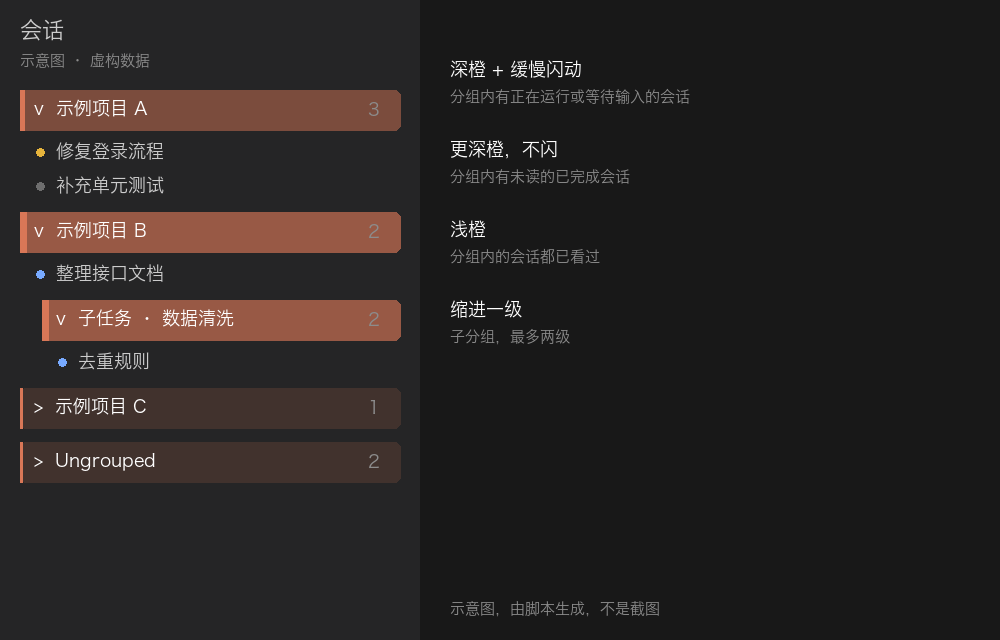
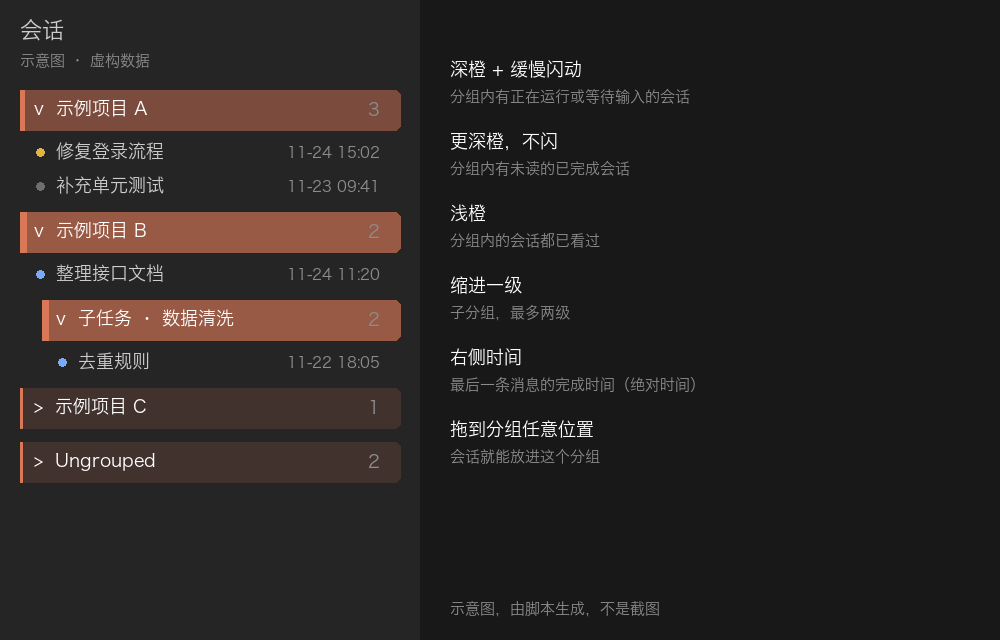
feat(vscode): drop sessions anywhere in a group, absolute session times
- sessions can be dropped on a group body, not only its header; the
  inner group handles the drop and stops propagation
- session rows show the absolute last-message time instead of "5m"
- refresh the preview image and docs

diff --git a/reapply.py b/reapply.py
@@ -12,6 +12,8 @@ Patches:
   the model into ~/.claude/settings.json, which other running sessions watch.
   Each session's pick is kept in globalState "sessionModels" and given back
   when that session is opened again.
+- Session rows show the absolute time of the last message.
+- A session can be dropped anywhere inside a group, not only on its header.
 - The context pie no longer sends /compact. It tells you to open a new
   thread and run /handoff.
 
@@ -19,10 +21,9 @@ The Marketplace build is minified and replaced on every update, so this
 script retargets the current install by structure, not by old symbol names.
 
 Usage:
-    python3 reapply.py
+    python3 ~/.config/claude-vscode-group-patch/reapply.py
 
 Then in VS Code: Developer: Reload Window.
-To run it automatically after updates, see install-launchagent.sh.
 """
 
 from __future__ import annotations
@@ -493,6 +494,79 @@ def apply_nest_menu(text: str) -> str:
     return text.replace(anchor, helper + anchor, 1)
 
 
+def apply_session_time(text: str) -> str:
+    """Session rows show the absolute time of the last message, not "5m"."""
+    if "getFullYear()===n.getFullYear()" in text:
+        return text
+    m = once(
+        text,
+        re.compile(
+            r"function (\w+)\((\w+)\)\{let \w+=Date\.now\(\)-\2,i=Math\.floor\(\w/1000\),"
+            r"o=Math\.floor\(i/60\),r=Math\.floor\(o/60\),s=Math\.floor\(r/24\),"
+            r"a=Math\.floor\(s/30\),l=Math\.floor\(s/365\);if\(l>0\)return`\$\{l\}y`;"
+            r"if\(a>0\)return`\$\{a\}mo`;if\(s>0\)return`\$\{s\}d`;if\(r>0\)return`\$\{r\}h`;"
+            r"if\(o>0\)return`\$\{o\}m`;return\"now\"\}"
+        ),
+        "relative time formatter",
+    )
+    name, arg = m.group(1), m.group(2)
+    new = (
+        f"function {name}({arg}){{if(!Number.isFinite({arg}))return\"\";"
+        f"let d=new Date({arg}),p=(x)=>String(x).padStart(2,\"0\"),n=new Date();"
+        'return(d.getFullYear()===n.getFullYear()?"":d.getFullYear()+"-")'
+        '+p(d.getMonth()+1)+"-"+p(d.getDate())+" "+p(d.getHours())+":"+p(d.getMinutes())}'
+    )
+    return text.replace(m.group(0), new, 1)
+
+
+def apply_group_drop_area(text: str) -> str:
+    """Drop a session anywhere inside a group, not only on its header."""
+    over_pat = "onDragOver:(ev)=>{if(ev.defaultPrevented||gDrag.current)return;"
+    drop_pat = "onDrop:(ev)=>{if(ev.defaultPrevented||gDrag.current)return;"
+    if over_pat in text:
+        text = text.replace(over_pat, over_pat + "ev.stopPropagation();")
+        text = text.replace(drop_pat, drop_pat + "ev.stopPropagation();")
+        return text
+    head = once(
+        text,
+        re.compile(
+            r'onDragOver:\((\w+)\)=>\{if\(gDrag\.current\)\{gOver\(\1,\w+\.id\);return\}'
+            r'(\w+)\(\1,\{kind:"group",groupId:\w+\.id\}\)\},'
+            r'onDragLeave:\(\1\)=>\{if\(gDrag\.current\)\{gLeave\(\1,\w+\.id\);return\}'
+            r'(\w+)\(\1,\{kind:"group",groupId:\w+\.id\}\)\},'
+            r'onDrop:\(\1\)=>\{if\(gDrag\.current\)\{gDrop\(\1,\w+\.id\);return\}'
+            r'(\w+)\(\1,\{kind:"group",groupId:\w+\.id\}\)\}'
+        ),
+        "group header session drop handlers",
+    )
+    over, leave, drop = head.group(2), head.group(3), head.group(4)
+    def area(gid):
+        return (
+            f'onDragOver:(ev)=>{{if(ev.defaultPrevented||gDrag.current)return;ev.stopPropagation();'
+            f'{over}(ev,{{kind:"group",groupId:{gid}}})}},'
+            f'onDragLeave:(ev)=>{leave}(ev,{{kind:"group",groupId:{gid}}}),'
+            f'onDrop:(ev)=>{{if(ev.defaultPrevented||gDrag.current)return;ev.stopPropagation();'
+            f'{drop}(ev,{{kind:"group",groupId:{gid}}})}}'
+        )
+    old_parent = 'k("div",{className:"group-nest",children:['
+    if text.count(old_parent) != 1:
+        fail("group nest container is not unique")
+    text = text.replace(
+        old_parent,
+        'k("div",{className:"group-nest",' + area("he.id") + ",children:[",
+        1,
+    )
+    old_child = "!cu.collapsed&&ci.map(pN)"
+    if text.count(old_child) != 1:
+        fail("child session list is not unique")
+    text = text.replace(
+        old_child,
+        '!cu.collapsed&&k("div",{className:"group-nest",' + area("cu.id") + ",children:ci.map(pN)})",
+        1,
+    )
+    return text
+
+
 def write_js(js_path: Path, text: str) -> None:
     previous = js_path.read_text(encoding="utf-8")
     backup(js_path)
@@ -509,6 +583,8 @@ def patch_js(js_path: Path) -> str:
         updated = text if HANDOFF_MARKER in text else apply_handoff(text)
         updated = apply_nest(updated)
         updated = apply_nest_menu(updated)
+        updated = apply_session_time(updated)
+        updated = apply_group_drop_area(updated)
         if updated == text:
             return "js already patched"
         write_js(js_path, updated)
@@ -712,6 +788,8 @@ def patch_js(js_path: Path) -> str:
     text = apply_handoff(text)
     text = apply_nest(text)
     text = apply_nest_menu(text)
+    text = apply_session_time(text)
+    text = apply_group_drop_area(text)
 
     write_js(js_path, text)
     return (

diff --git a/README.md b/README.md
@@ -15,6 +15,8 @@
 | 未读提示 | 有未读的已完成会话时，分组更深、色条更粗，不闪 |
 | 分组排序 | 拖动分组标题改变顺序，组内会话跟着走 |
 | 两级分组 | 把分组拖到另一个分组中间，或右键选择「放入」，只到两级 |
+| 会话拖入分组 | 会话可以拖到分组任意位置，不限分组标题 |
+| 绝对时间 | 会话行右侧显示最后一条消息的完成时间，今年显示 `MM-DD HH:mm`，跨年显示 `YYYY-MM-DD HH:mm` |
 | 按会话的模型 | 切换模型只影响当前会话，不影响其他正在运行的会话；重开后记得住 |
 | 上下文提示 | 不自动压缩。上下文过半时提示开新线程，点击发送 `/handoff` |
 
